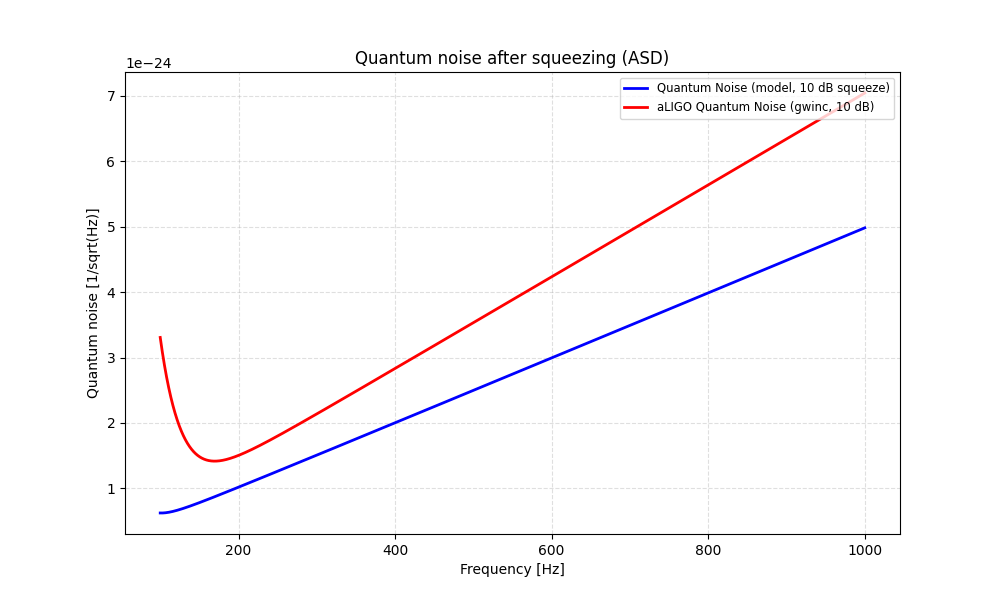
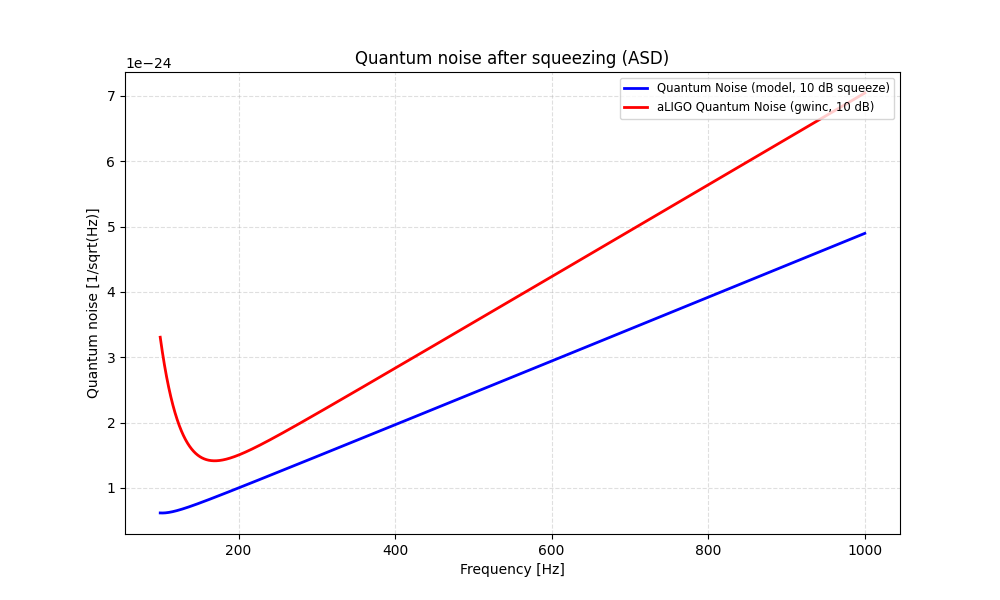
Adding theoretical explanation.

diff --git a/quantumNoise.py b/quantumNoise.py
@@ -30,24 +30,30 @@ def get_laser_power_in_cavity(inputPower: float, config: DetectorConfig | None =
     """
     Calculate the circling power in the cavity from the given input laser power.
     """
+    # from ppm to transmittance
     l_mirror = config.loss_mirror_ppm * 1e-6
     l_BS     = config.loss_BS_ppm * 1e-6
 
+    # loss per round trip
     l_roundtrip_arm = 2 * l_mirror
 
+    # per round trip, the loss is composed by two mirror reflectings and the leaking at the ETM.
     total_arm_loss = config.T_ETM + l_roundtrip_arm
+
+    # the equivalent reflection rate for the cavity and the beam splitter
     R_arm = 1 - (4 * total_arm_loss / config.T_ITM)
-    
     r_arm = np.sqrt(R_arm)
-    r_comp = r_arm * (1 - l_BS) * (1 - l_BS)
+    r_comp = r_arm * (1 - l_BS)
     r_PRM = np.sqrt(1 - config.T_PRM)    
 
     t_PRM = np.sqrt(config.T_PRM)
     PRG = (t_PRM / (1 - r_PRM * r_comp))**2
 
+    # the power at the beam splitter and at each arm's cavity
     P_BS = inputPower * PRG   
     P_arm_input = P_BS / 2
     
+    # magnifying of the arm cavity
     ACG = 4 / config.T_ITM
     P_circulating = P_arm_input * ACG
     
@@ -98,7 +104,6 @@ def squeeze_db_to_r(squeeze_db: float) -> float:
     """
     return squeeze_db * np.log(10.0) / 20.0
 
-
 def squeeze_quantum_noise_with_same_angle(
     freq,
     squeeze_db: float = 10.0,
@@ -146,6 +151,7 @@ def squeeze_quantum_noise_with_varying_angle(
     h_sql_sq = get_standard_quantum_limit(gravitationalWaveOmega, config=config) ** 2
     kappa = get_coupling_constant(gravitationalWaveOmega, config=config)
     return (h_sql_sq / 2.0) * (kappa + 1 / kappa) * np.exp(-2.0 * r)
+
 
 def plot():
     freq = np.linspace(100, 1000, 10000)

diff --git a/README.md b/README.md
@@ -3,36 +3,36 @@
 ## Calculate the metric tensor components in TT gauge 
 
 This script is used to calculate the metric tensor of the gravitational wave induced by a spot-like source, which means the distance from the detector to the source is much longer than the size of the source but may be akin to the wavelength, say
-$$
+\[
 R \gg d \\
 R \approx \lambda
-$$
+\]
 
 We assume that the source is a rotating column with four holes inside, where the diameter of the column is $D \approx 5 \text{m}$ while the holes has diameter of about $d \approx 1 \text{m}$. The columns are made of carbon fiber.
 
 According to the linearized theory, the metric tensor at the detecter will be proportional to the second-order derivative of the quardrupole tensor,
-$$
+\[
 h_{ij}^{TT} = \frac{2 G}{R c^{4}} \ddot{I}_{ij}^{TT} (t_{\text{rev}})
-$$
+\]
 where the quadrupole tensor is defined by
-$$
+\[
 I_{ij} (t) = \int_{V'} \rho \left(x'_{i} x'_{j} - \frac{1}{3} \delta_{ij} r'^{2}\right)  \, \text{d} \tau' 
-$$
+\]
 
 For the columns under this circumstance, the calculation of the quadrupole tensor could be simplified to the linear superposition of a column with the density $\rho$ and four columns of the density $- \rho$.
 
 After getting the numerical value of $h_{ij}$, we'll use the projector to get the TT mode:
-$$
+\[
 \Lambda_{ij, kl} = P_{ik} P_{jl} - \frac{1}{2} P_{ij} P_{kl}
-$$
+\]
 where 
-$$
+\[
 P = \begin{pmatrix} 
 1 & 0 & 0 \\
 0 & 1 & 0 \\
 0 & 0 & 0
 \end{pmatrix}
-$$
+\]
 So $h_{ij}^{TT} = \Lambda_{ij, kl} h_{kl}$
 
 The first part of the script will calculate the components of the metric tensor for a rotating carbon fiber column and output the result in the TT gauge.
@@ -42,137 +42,163 @@ The first part of the script will calculate the components of the metric tensor 
 The source column is made of carbon fiber with critical stress of about 2 - 5 GPa. In this part, we'll do a brief evaluation of the maximum angular velocity of the source.
 
 For simplicity, we assume that the column is linear elastic and homogeneous isotropic with Young's modulus $E$ and Poisson's ratio $\nu$. While in equilibrium, the stress tensor will obey the formula
-$$
+\[
 \nabla \cdot \sigma + \rho \omega^{2} r \hat{e}_{r} = 0
-$$
+\]
 
 Expanding the nabla operator and the tensor in the cylinder coordinate, we'll get 
-$$
+\[
 \nabla = \hat{e}_{r} \frac{\partial}{\partial r} + \hat{e}_{\theta} \frac{\partial}{\partial \theta} + \hat{e}_{z} \frac{\partial}{\partial z}
-$$
+\]
 
 So 
-$$
+\[
 \nabla \cdot \sigma = \hat{e}_{r} \frac{\mathrm{d}}{\mathrm{d} r} \sigma_{rr} + \hat{e}_{r} \frac{\sigma_{rr} - \sigma_{\theta \theta}}{r}
-$$
+\]
 and the previous equation becomes 
-$$
+\[
 \frac{\mathrm{d}}{\mathrm{d} r} \sigma_{rr} + \frac{\sigma_{rr} - \sigma_{\theta \theta}}{r} + \rho \omega^{2} r = 0
-$$
+\]
 
 For isotropic material, the constitutive equations give out that
-$$
+\[
 \sigma_{rr} = \lambda (\epsilon_{rr} + \epsilon_{\theta \theta} + \epsilon_{zz}) + 2 \mu \epsilon_{rr} \\
 \sigma_{\theta \theta} = \lambda (\epsilon_{rr} + \epsilon_{\theta \theta} + \epsilon_{zz}) + 2 \mu \epsilon_{\theta \theta}
-$$
+\]
 with $\lambda = \frac{E \nu}{(1 + \nu) (1 - 2 \nu)}$ and $\mu = \frac{E}{1 + \nu}$
 
 Now we can solve the first-order ODE
-$$
+\[
 (\lambda + 2 \mu) \frac{\mathrm{d}^{2}}{\mathrm{d} r^{2}}{u}_{r} + \lambda \frac{\mathrm{d}}{\mathrm{d} r} \frac{u_{r}}{r} + \frac{2 \mu}{r} \left(\frac{\mathrm{d}}{\mathrm{d} r} u_{r} - \frac{u_{r}}{r}\right) + \rho \omega^{2} r = 0
-$$
-$$
+\]
+\[
 (\lambda + 2 \mu) \frac{\mathrm{d}}{\mathrm{d} r}\left(\frac{1}{r} \frac{\mathrm{d}}{\mathrm{d} r} (r u_{r})\right) + \rho \omega^{2} r = 0
-$$
+\]
 with the boudary conditions
-$$
+\[
 \left. \sigma_{rr} = 0 \right|_{r = R}
-$$
+\]
 
 The solution to this equation is
-$$
+\[
 \sigma_{rr} (r) = \frac{\rho \omega^{2} (2 \lambda + 3 \mu)}{4 (\lambda + 2 \mu)} (R^{2} - r^{2}) \\
 \sigma_{\theta \theta} (r) = \frac{\rho \omega^{2}}{4 (\lambda + 2 \mu)} ((2 \lambda + 3 \mu) R^{2} - (2\lambda + \mu) r^{2})
-$$
+\]
 
 So the maximum stress in the rotating column equals
-$$
+\[
 \sigma_{\text{max}} = \frac{\rho \omega^{2} (2 \lambda + 3 \mu)}{4 (\lambda + 2 \mu)} R^{2}
-$$
+\]
 
-Given the typical fators of carbon fiber^[1], we choose Youngs's modulus of about 50 GPa with Poisson ratio of about 0.27, where the critical angular velocity can be estimated by 
-$$
+Given the typical fators of carbon fiber, we choose Youngs's modulus of about 50 GPa with Poisson ratio of about 0.27, where the critical angular velocity can be estimated by 
+\[
 \omega_{c} = \sqrt{\frac{4 \sigma_{c} (\lambda + 2 \mu)}{\rho (2 \lambda + 3 \mu) R^{2}}} \approx 673 \, \text{rad}/ \text{s}
-$$
+\]
 
 ## Shall we cut the column to several small columns?
 
 If we keep the total volume unchanged and cut one big column into $N^{3}$ small columns, the critical angular velocity will become
-$$
+\[
 \omega_{c}' = N \omega_{c0}
-$$
+\]
 
 So the $h_{ij}$ at the detector will become
-$$
+\[
 h_{ij}' = N^{2} \cdot \frac{1}{N^{5}} h_{ij} = \frac{1}{N^{3}} h_{ij}
-$$
+\]
 
 The total response, considering superposition of the $N^{3}$ little columns, will be
-$$
+\[
 N^{3} h_{ij}' = h_{ij}
-$$
+\]
 about the same order of magnitude compared to one big column.
 
-## Calculate the SNR of the Data to Decide How Many Sources We Need
+## Calculate the SNR of Single Source to Decide How Many Sources We Need
 
 First, we should get the signal to the detector while under our circumstance, the approximation $\lambda \gg L$ does not work. The time delay in the transition time of the photon is 
-$$
+\[
 \delta T(t) = \frac{1}{2c} a^{i} a^{j} \int_{0}^{L} h_{ij} \left(\text{Distance}(\xi), t_{0} + \frac{\xi}{c} - \frac{\text{Distance}(\xi)}{c} \right) \, \mathrm{d} \xi
-$$
+\]
 and
-$$
+\[
 \delta T'(t) = \frac{1}{2c} a^{i} a^{j} \int_{0}^{L} h_{ij} \left(\text{Distance}(\xi), t_{0} + \frac{L - \xi}{c} + \frac{\text{Distance}(\xi)}{c} \right) \, \mathrm{d} \xi
-$$
+\]
 where $t_{0} = t - T$.
 
 So the perturbation of the whole round trip is
-$$
+\[
 \delta T_{r.t.} (t) = \delta T(t - T) + \delta T' (t)
-$$
+\]
 and we could get the signal input to the detector
-$$
+\[
 h(t) = \frac{\delta T}{T} = \frac{1}{4L} a^{i} a^{j} \int_{0}^{L} h_{ij} \left(\text{Distance}(\xi), t_{0} + \frac{\xi}{c} - \frac{\text{Distance}(\xi)}{c} \right) + h_{ij} \left(\text{Distance}(\xi), t_{0} + \frac{L - \xi}{c} + \frac{\text{Distance}(\xi)}{c} \right) \, \mathrm{d} \xi
-$$
+\]
 
 With the signal input to the detector, we can now analysis the noise of the detector and get the SNR of a signal source. Assume that the whole signal we see is $d(t) = n(t) + h(t)$, so we can get the root mean square of the noise after filtering (whose mean value is assumed zero)
-$$
+\[
 \langle N^{2} (t) \rangle =  \int \mathrm{d} f_{1} \int \mathrm{d} f_{2} e^{i 2\pi (f_{1} - f_{2}) t} k(f_{1}) k^{*} (f_{2}) \langle \tilde{n}(f_{1}) \tilde{n}^{*} (f_{2}) \rangle 
-$$
+\]
 By definition, we have
-$$
+\[
 \langle \tilde{n} (f_{1}) \tilde{n}^{*} (f_{2}) \rangle = \frac{1}{2} S_{n} (f_{1}) \delta (f_{1} - f_{2})
-$$
+\]
 So the former integral becomes
-$$
+\[
 \int_{- \infty}^{\infty} \mathrm{d} f \frac{S_{n} (f)}{2} |k(f)|^{2} = \int_{0}^{\infty} \mathrm{d} f S_{n} (f) |k(f)|^{2}
-$$
+\]
 
 Then we can calculate the SNR by doing the integral
-$$
-\text{SNR} = \frac{S}{\sqrt{\langle N^{2} \rangle}} = \sqrt{4\int_{0}^{\infty} \frac{|h (f)|^{2}}{S_{n \text{(one-sided)}} (f)} \, \mathrm{d} f}
-$$
+\[
+\text{SNR} = \frac{S}{\sqrt{\langle N^{2} \rangle}} = \sqrt{4\int_{0}^{\infty} \frac{|h (f)|^{2}}{S_{n}^{\text{(one-sided)}} (f)} \, \mathrm{d} f}
+\]
 
 ## Design Low Quantum Noise Detector for the 600 Hz Wave
 
 The quantum noise for the interferometer is (before squeezing)
-$$
-S^{\text{SQL}}_{h-conv} = \frac{h_{SQL}^{2}}{2} \left(\frac{1}{\kappa} + \kappa\right)
-$$
+\[
+S^{\text{SQL}}_{h} = \frac{h_{SQL}^{2}}{2} \left(\frac{1}{\kappa} + \kappa\right)
+\]
 where the coupling constant is defined as
-$$
-h_{SQL} = \sqrt{\frac{8 \hbar}{m \Omega^{2} L^{2}}}  \\
-\kappa (\Omega) = \frac{8 \gamma \omega_{0} P_{0}}{m L c \Omega^{2} (\gamma^{2} + \Omega^{2})}
-$$
-Notice that the laser power $P_{0}$ is the power in the F-P cavities.
+\[
+h_{SQL} = \sqrt{\frac{8 \hbar}{m \Omega^{2} L^{2}}} , \quad
+\kappa (\Omega) = \frac{2 \gamma^{4} I_{o}/I_{SQL}}{m L c \Omega^{2} (\gamma^{2} + \Omega^{2})}
+\]
+and $I_{SQL}$ is the power when $\gamma = \Omega$, defined as
+\[
+I_{SQL} = \frac{m L^{2} \gamma^{4}}{4 \omega_{o}}
+\]
+Notice that the laser power $I_{o}$ is the power in the F-P cavities.
 
-[^1]: Sayed Abolfazl Mirdehghan, 1 - Fibrous polymeric composites,
-Editor(s): Masoud Latifi,
-In The Textile Institute Book Series,
-Engineered Polymeric Fibrous Materials,
-Woodhead Publishing,
-2021,
-Pages 1-58,
-ISBN 9780128243817,
-https://doi.org/10.1016/B978-0-12-824381-7.00012-3.
-(https://www.sciencedirect.com/science/article/pii/B9780128243817000123)
+### Magnifying at the PRM
 
+The laser power circling in the cavities is different from the laser power input to the detector, mostly because the magnifying effect of the PRM mirror. First we consider the cavity on the arm (ITM and ETM), while steady, the power in and out the cavity at the ITM is
+\[
+G_{arm} = \frac{P_{in}}{P_{circ}} = \frac{T_{ITM}}{1 - \sqrt{R_{ITM} R_{ETM}}}
+\]
+Using the approximation $T_{ETM} \ll E_{ITM}$, the ratio is near
+\[
+\frac{P_{in}}{P_{circ}} \approx \frac{T_{ITM}}{4}
+\]
+Loss of per circulation is 
+\[
+\Lambda_{MI} = \frac{4 (T_{ETM} + L_{arm})}{T_{ITM}} + L_{BS}
+\]
+So the beam splitter and the arm F-P cavity can be regarded as one mirror with equivalent reflection ratio
+\[
+R_{MI} = 1 - \Lambda_{MI}
+\]
+Therefore, the gain for the equivalent cavity is
+\[
+G_{PR} = \frac{4 T_{PRM}}{(T_{PRM} + \Lambda_{MI})^{2}}
+\]
+Choosing $T_{PRM} = \Lambda_{MI}$, the total gain is approximately 
+\[
+G_{PR,max} \approx \frac{1}{\Lambda_{MI}}
+\]
+
+### Signal Recycling and Detuned Interferometers
+
+
+
+
+[^1]: Sayed Abolfazl Mirdehghan, 1 - Fibrous polymeric composites, Editor(s): Masoud Latifi, In The Textile Institute Book Series, Engineered Polymeric Fibrous Materials, Woodhead Publishing, 2021, Pages 1-58, ISBN 9780128243817, https://doi.org/10.1016/B978-0-12-824381-7.00012-3. (https://www.sciencedirect.com/science/article/pii/B9780128243817000123)